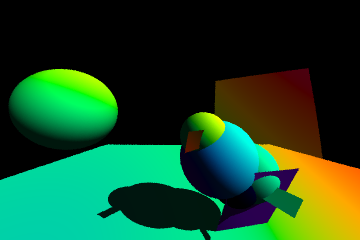
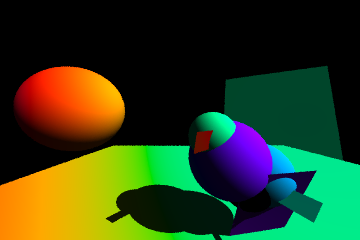
doppler typo bugfix

diff --git a/renderer.h b/renderer.h
@@ -18,7 +18,7 @@ inline void write_color(std::ostream& out, const vec3& pixel_color) {
     out << r << " " << g << " " << b << "\n";
 }
 
-inline vec3 ray_color(const ray& r, const hittable& world, const vec3& light_dir, double beta) {
+inline vec3 ray_color(const ray& r, const hittable& world, const vec3& light_dir, const vec3& cam_dir, double beta) {
     hit_record record;
 
     if (!world.hit(r, eps, infinity, record)) { return vec3(); } 
@@ -28,7 +28,7 @@ inline vec3 ray_color(const ray& r, const hittable& world, const vec3& light_dir
     const double brightness = std::max(dot(-light_dir, record.normal), 0.0);
     const bool in_shadow = world.hit(shadow_ray, eps, infinity, tmp);
 
-    double lambda_observed = record.wavelength * doppler_factor(r, light_dir, beta);
+    double lambda_observed = record.wavelength * doppler_factor(r, cam_dir, beta);
     const vec3 color = xyz_to_srgb(wavelength_to_xyz(lambda_observed));
 
     if (in_shadow) { return color * 0.1; }
@@ -45,7 +45,7 @@ inline void render (std::ostream& out, const camera& cam, const hittable& world,
         for (int i = 0; i < horizontal; i++) {
             vec3 pixel_color;
             for (int s = 0; s < samples; s++){
-                pixel_color += ray_color(cam.project(i, j, (random_double()-.5), (random_double()-.5)), world, light_dir, cam.beta);
+                pixel_color += ray_color(cam.project(i, j, (random_double()-.5), (random_double()-.5)), world, light_dir, cam.velocity_dir, cam.beta);
             }
 
             write_color(out, (pixel_color/samples));

diff --git a/main.cpp b/main.cpp
@@ -32,7 +32,7 @@ int main() {
     world.add(std::make_shared<plane>(vec3(0, 1, 0), vec3(0, -1,-1), 5, 5, 575));
     world.add(std::make_shared<plane>(vec3(-1, .5, 2), vec3(5,1,-7), 3, 3, 575));
 
-    camera cam(360, 240, vec3(-.5, 0.5, 0.5), unit_vec3(vec3(0.0,0.0,-1.0)), 0.2);
+    camera cam(360, 240, vec3(-.5, 0.5, 0.5), unit_vec3(vec3(1.0,0.0,-1.0)), 0.5);
     render(out, cam, world, light_direction);
     return 0;
 }

diff --git a/README.md b/README.md
@@ -5,7 +5,7 @@ special relativity first, then geodesic tracing in curved spacetime.
 The personal reason for this project is to actually see what happens at different speeds, rather than taking facts from books as is.
 
 ### Current state:
-Doppler effect demonstration on speeds $\beta = 0$, $0.1$, $0.2$ and $0.3$, camera movement vector (0, 0, -1) - forward, light_direction = (-1, -1, -0.5):
+Doppler effect demonstration on speeds $\beta = 0$ through $0.5$, camera movement vector (1, 0, -1) = forward-right diagonal, light_direction = (-1, -1, -0.5):
 
 | β = 0 | β = 0.1 |
 |:---:|:---:|
@@ -14,6 +14,10 @@ Doppler effect demonstration on speeds $\beta = 0$, $0.1$, $0.2$ and $0.3$, came
 | β = 0.2 | β = 0.3 |
 |:---:|:---:|
 | ![doppler shift at beta=0.2](renders/doppler_02.png) | ![doppler shift at beta=0.3](renders/doppler_03.png) |
+
+| β = 0.4 | β = 0.5 |
+|:---:|:---:|
+| ![doppler shift at beta=0.4](renders/doppler_04.png) | ![doppler shift at beta=0.5](renders/doppler_05.png) |
 
 Each object emits at a single wavelength, so the Doppler shift is a shift of that one wavelength. This is why the scene has no white or grey surfaces - white light is a broad spectrum, which a monochromatic model cannot represent. Colours are converted to sRGB through the CIE 1931 colour matching functions (Wyman, Sloan & Shirley analytic fit), then desaturated into gamut and gamma-corrected.
 
